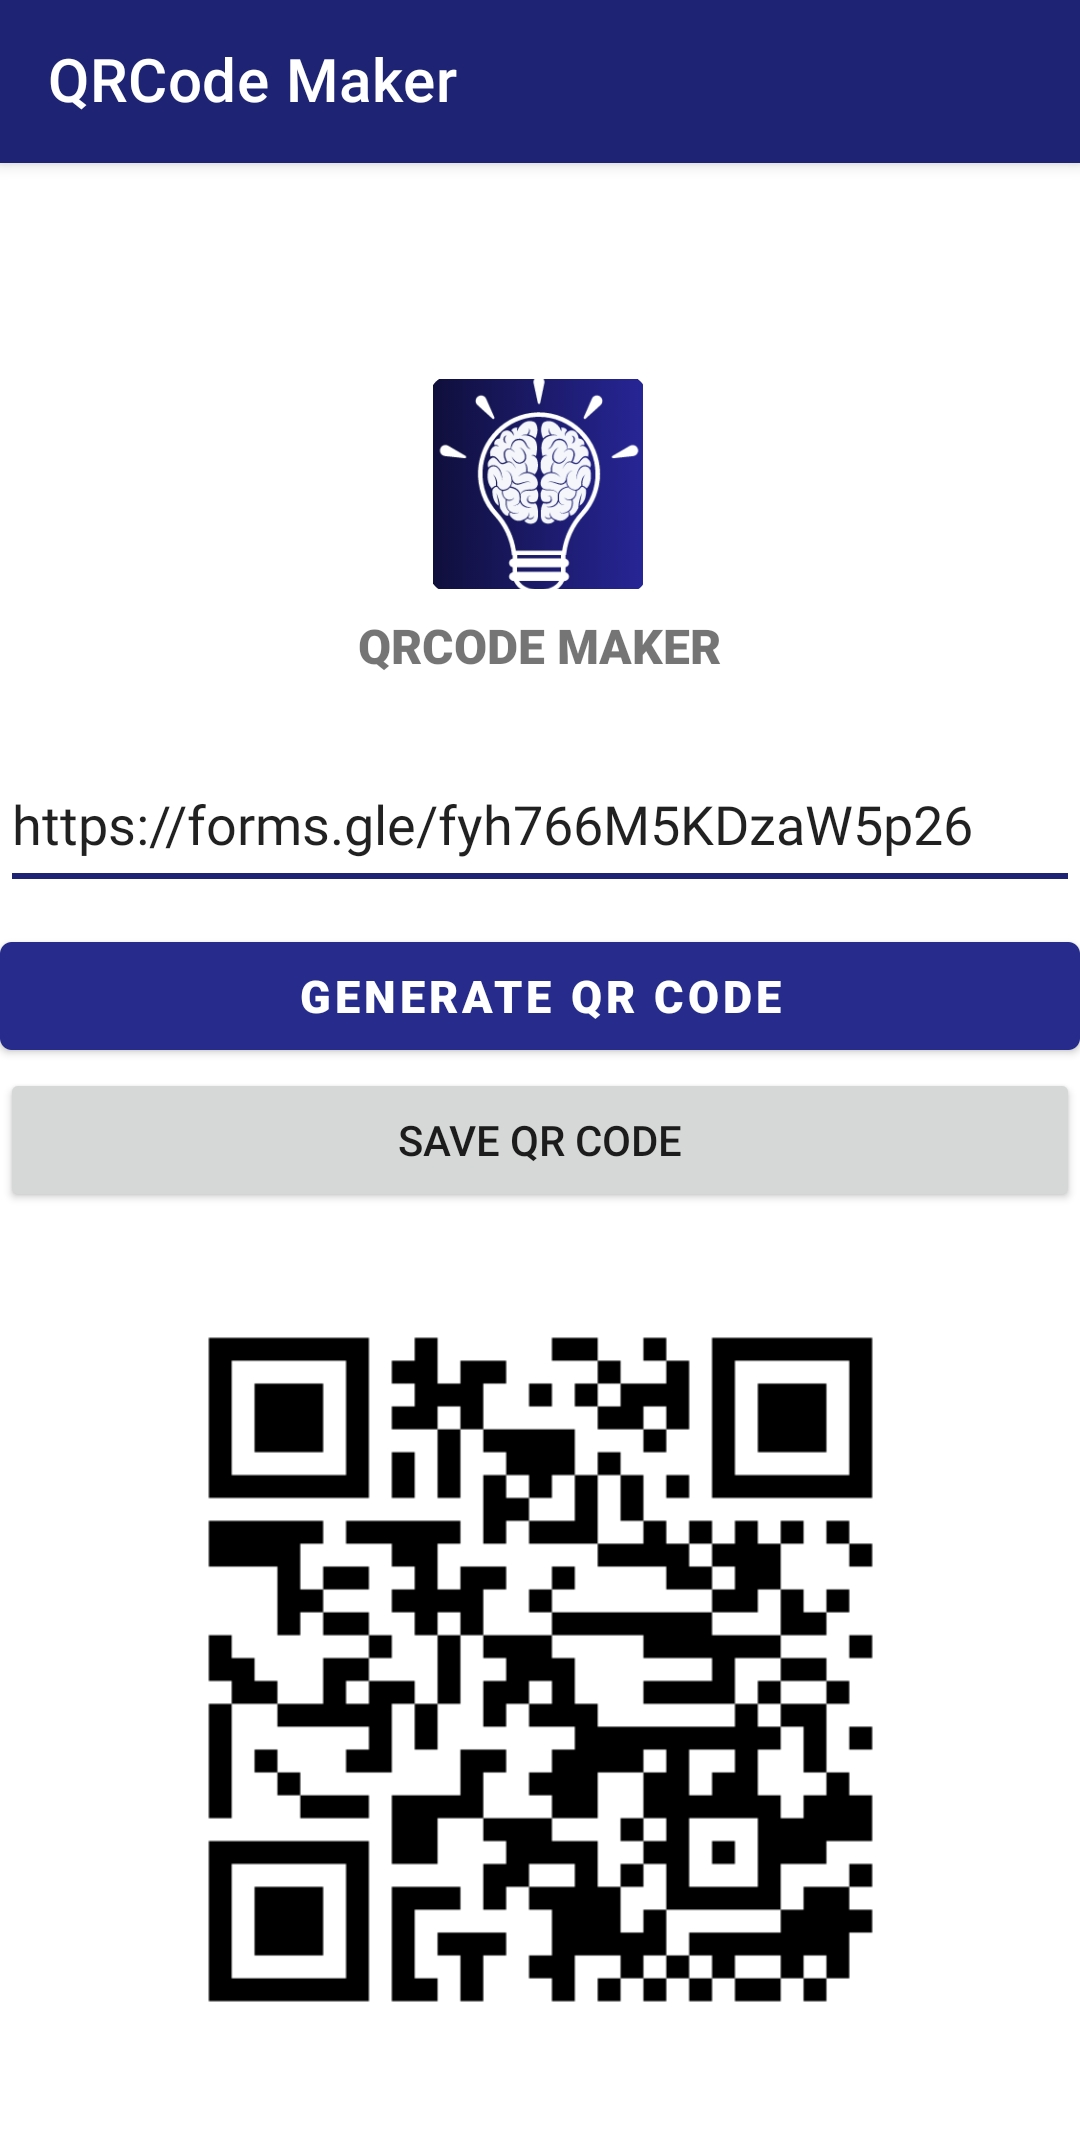
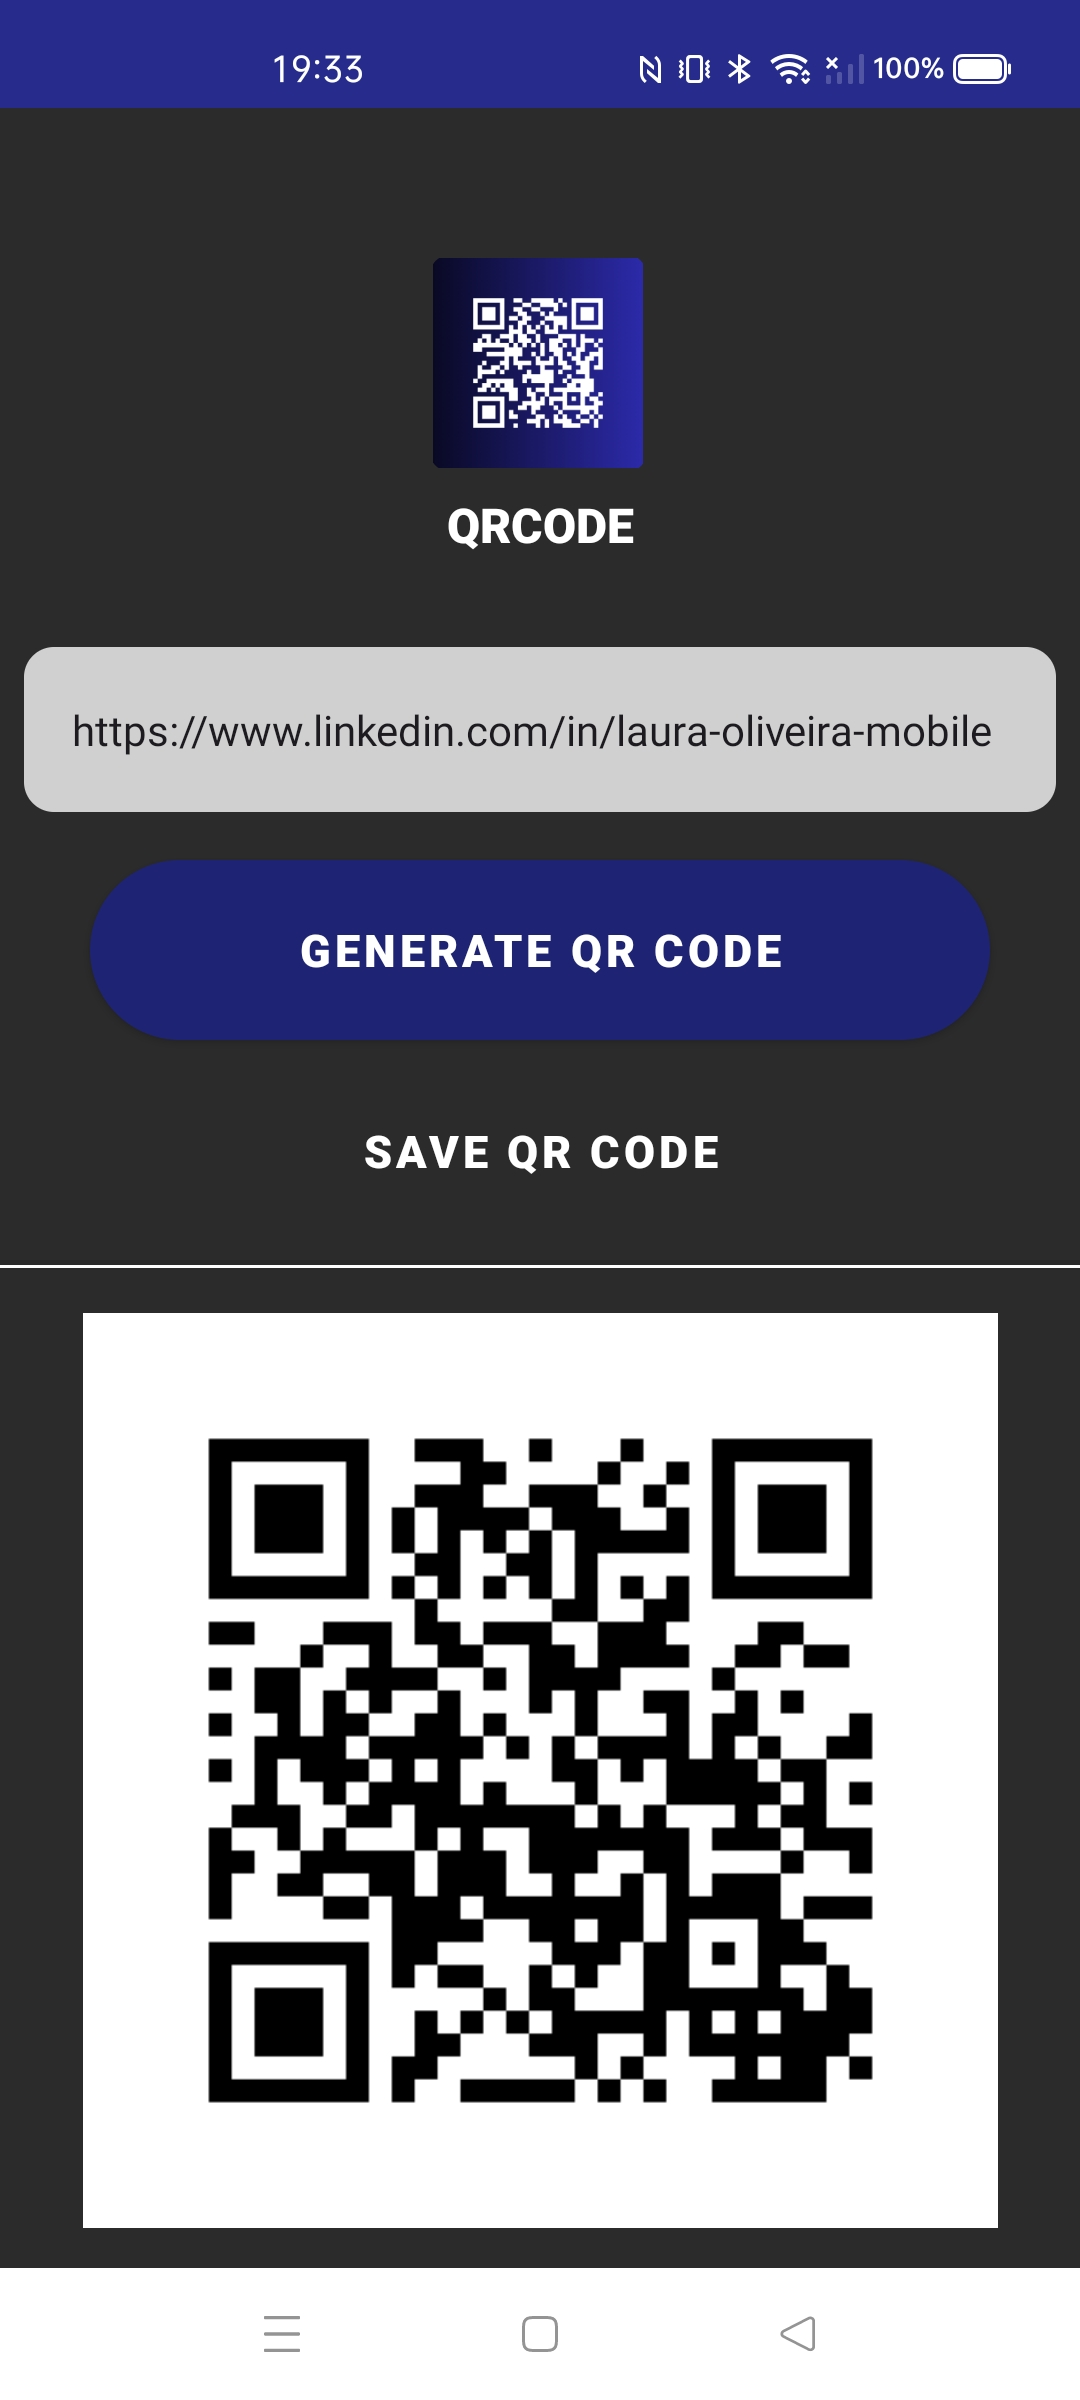
[FrontEnd] Prints novas telas

diff --git a/app/src/main/java/com/qr/maker/viewModel/MainViewModel.kt b/app/src/main/java/com/qr/maker/viewModel/MainViewModel.kt
@@ -10,7 +10,8 @@ import android.Manifest
 import pub.devrel.easypermissions.EasyPermissions
 import pub.devrel.easypermissions.PermissionRequest
 
-class MainViewModel(private val context: Context) : EasyPermissions.PermissionCallbacks {
+class MainViewModel(private val context: Context) : EasyPermissions.PermissionCallbacks
+{
 
     private val REQUEST_CODE_WRITE_STORAGE = 123
 
@@ -21,7 +22,7 @@ class MainViewModel(private val context: Context) : EasyPermissions.PermissionCa
             // Permissões já concedidas, prosseguir com a operação desejada.
             saveImageToGallery()
         }
-        //        else {
+//                else {
 //            // Permissões não concedidas, solicitar permissões.
 //            EasyPermissions.requestPermissions(
 //                EasyPermissions.Builder(context, REQUEST_CODE_WRITE_STORAGE, *permissions)
